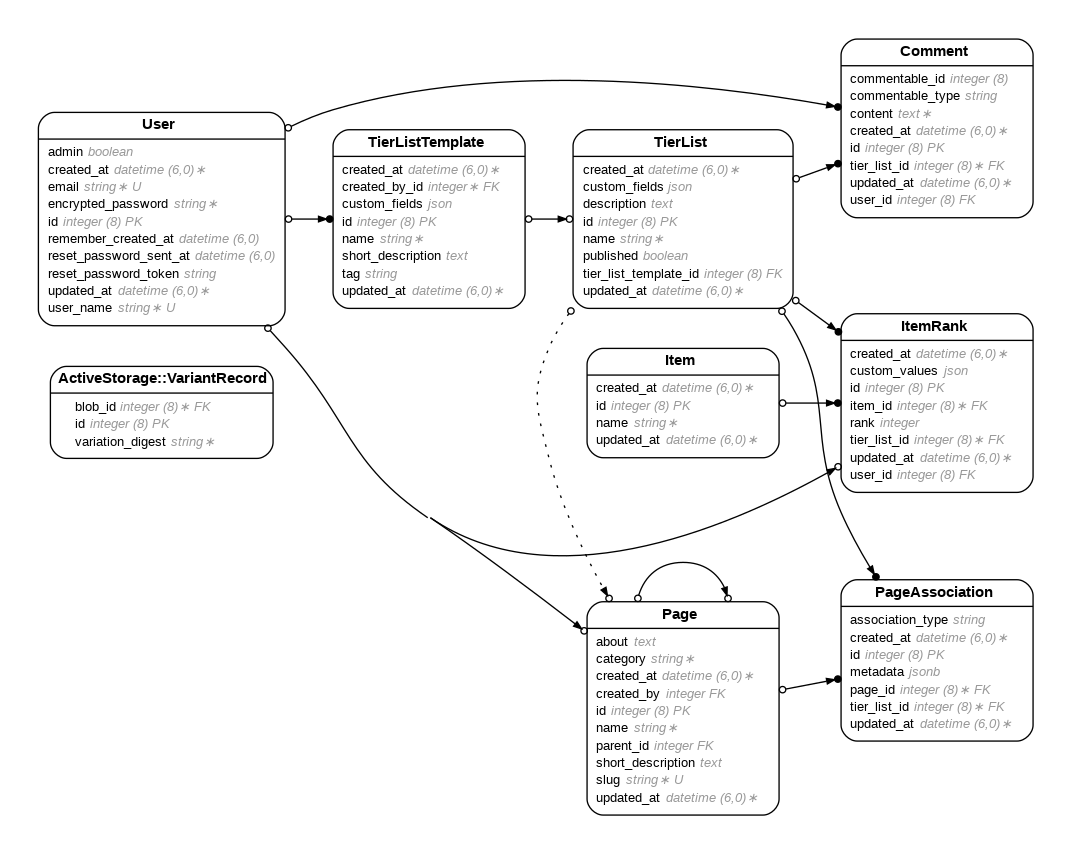
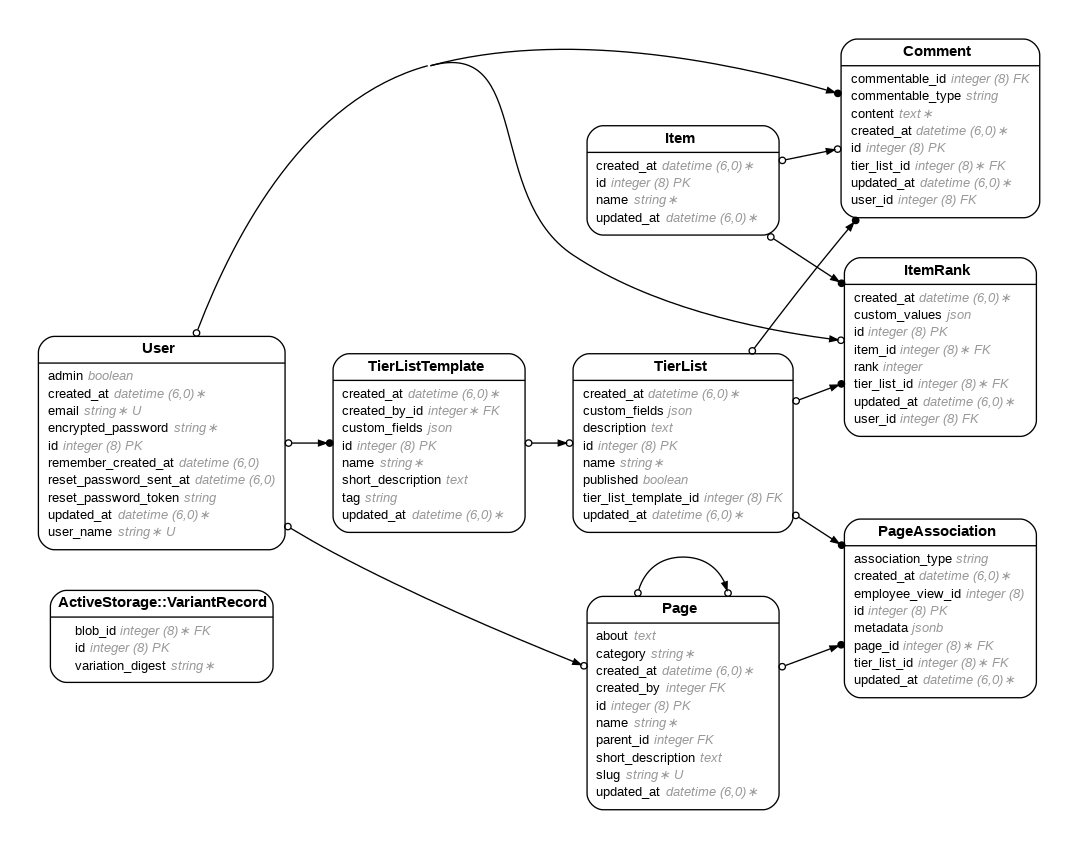
Created many new models and tables

diff --git a/db/schema.rb b/db/schema.rb
@@ -10,7 +10,7 @@
 #
 # It's strongly recommended that you check this file into your version control system.
 
-ActiveRecord::Schema[7.1].define(version: 2025_01_04_205326) do
+ActiveRecord::Schema[7.1].define(version: 2025_01_05_011759) do
   # These are extensions that must be enabled in order to support this database
   enable_extension "plpgsql"
 
@@ -55,6 +55,54 @@ ActiveRecord::Schema[7.1].define(version: 2025_01_04_205326) do
     t.index ["user_id"], name: "index_comments_on_user_id"
   end
 
+  create_table "companies", force: :cascade do |t|
+    t.string "name"
+    t.string "company_type"
+    t.datetime "created_at", null: false
+    t.datetime "updated_at", null: false
+  end
+
+  create_table "employee_views", force: :cascade do |t|
+    t.string "name"
+    t.text "description"
+    t.datetime "created_at", null: false
+    t.datetime "updated_at", null: false
+  end
+
+  create_table "employees", force: :cascade do |t|
+    t.string "name", null: false
+    t.bigint "job_level_id", null: false
+    t.bigint "company_id", null: false
+    t.bigint "previous_company_id"
+    t.string "linkedin_url"
+    t.integer "flagged", default: 0, null: false
+    t.text "flag_comment"
+    t.bigint "group_id", null: false
+    t.bigint "location_id", null: false
+    t.bigint "school_id"
+    t.datetime "created_at", null: false
+    t.datetime "updated_at", null: false
+    t.index ["company_id"], name: "index_employees_on_company_id"
+    t.index ["flagged"], name: "index_employees_on_flagged"
+    t.index ["group_id"], name: "index_employees_on_group_id"
+    t.index ["job_level_id"], name: "index_employees_on_job_level_id"
+    t.index ["linkedin_url"], name: "index_employees_on_linkedin_url"
+    t.index ["location_id"], name: "index_employees_on_location_id"
+    t.index ["name"], name: "index_employees_on_name"
+    t.index ["previous_company_id"], name: "index_employees_on_previous_company_id"
+    t.index ["school_id"], name: "index_employees_on_school_id"
+  end
+
+  create_table "groups", force: :cascade do |t|
+    t.string "name", null: false
+    t.bigint "company_id", null: false
+    t.bigint "location_id", null: false
+    t.datetime "created_at", null: false
+    t.datetime "updated_at", null: false
+    t.index ["company_id"], name: "index_groups_on_company_id"
+    t.index ["location_id"], name: "index_groups_on_location_id"
+  end
+
   create_table "item_ranks", force: :cascade do |t|
     t.bigint "item_id", null: false
     t.bigint "tier_list_id", null: false
@@ -74,6 +122,21 @@ ActiveRecord::Schema[7.1].define(version: 2025_01_04_205326) do
     t.datetime "updated_at", null: false
   end
 
+  create_table "job_levels", force: :cascade do |t|
+    t.string "name"
+    t.string "company_type"
+    t.bigint "company_id", null: false
+    t.datetime "created_at", null: false
+    t.datetime "updated_at", null: false
+    t.index ["company_id"], name: "index_job_levels_on_company_id"
+  end
+
+  create_table "locations", force: :cascade do |t|
+    t.string "name", null: false
+    t.datetime "created_at", null: false
+    t.datetime "updated_at", null: false
+  end
+
   create_table "page_associations", force: :cascade do |t|
     t.bigint "page_id", null: false
     t.bigint "tier_list_id", null: false
@@ -81,6 +144,8 @@ ActiveRecord::Schema[7.1].define(version: 2025_01_04_205326) do
     t.jsonb "metadata", default: {}
     t.datetime "created_at", null: false
     t.datetime "updated_at", null: false
+    t.bigint "employee_view_id"
+    t.index ["employee_view_id"], name: "index_page_associations_on_employee_view_id"
     t.index ["page_id", "tier_list_id"], name: "index_page_associations_on_page_id_and_tier_list_id", unique: true
     t.index ["page_id"], name: "index_page_associations_on_page_id"
     t.index ["tier_list_id"], name: "index_page_associations_on_tier_list_id"
@@ -99,6 +164,12 @@ ActiveRecord::Schema[7.1].define(version: 2025_01_04_205326) do
     t.index ["created_by"], name: "index_pages_on_created_by"
     t.index ["parent_id"], name: "index_pages_on_parent_id"
     t.index ["slug"], name: "index_pages_on_slug", unique: true
+  end
+
+  create_table "schools", force: :cascade do |t|
+    t.string "name"
+    t.datetime "created_at", null: false
+    t.datetime "updated_at", null: false
   end
 
   create_table "tier_list_templates", force: :cascade do |t|
@@ -142,9 +213,19 @@ ActiveRecord::Schema[7.1].define(version: 2025_01_04_205326) do
   add_foreign_key "active_storage_variant_records", "active_storage_blobs", column: "blob_id"
   add_foreign_key "comments", "tier_lists"
   add_foreign_key "comments", "users"
+  add_foreign_key "employees", "companies"
+  add_foreign_key "employees", "companies", column: "previous_company_id"
+  add_foreign_key "employees", "groups"
+  add_foreign_key "employees", "job_levels"
+  add_foreign_key "employees", "locations"
+  add_foreign_key "employees", "schools"
+  add_foreign_key "groups", "companies"
+  add_foreign_key "groups", "locations"
   add_foreign_key "item_ranks", "items"
   add_foreign_key "item_ranks", "tier_lists"
   add_foreign_key "item_ranks", "users"
+  add_foreign_key "job_levels", "companies"
+  add_foreign_key "page_associations", "employee_views"
   add_foreign_key "page_associations", "pages"
   add_foreign_key "page_associations", "tier_lists"
   add_foreign_key "tier_lists", "tier_list_templates"

diff --git a/app/models/page_association.rb b/app/models/page_association.rb
@@ -7,23 +7,30 @@
 #  metadata         :jsonb
 #  created_at       :datetime         not null
 #  updated_at       :datetime         not null
+#  employee_view_id :bigint
 #  page_id          :bigint           not null
 #  tier_list_id     :bigint           not null
 #
 # Indexes
 #
+#  index_page_associations_on_employee_view_id          (employee_view_id)
 #  index_page_associations_on_page_id                   (page_id)
 #  index_page_associations_on_page_id_and_tier_list_id  (page_id,tier_list_id) UNIQUE
 #  index_page_associations_on_tier_list_id              (tier_list_id)
 #
 # Foreign Keys
 #
+#  fk_rails_...  (employee_view_id => employee_views.id)
 #  fk_rails_...  (page_id => pages.id)
 #  fk_rails_...  (tier_list_id => tier_lists.id)
 #
 class PageAssociation < ApplicationRecord
   belongs_to :page
-  belongs_to :tier_list
+  belongs_to :tier_list, optional: true
+  belongs_to :employee_view, optional: true
 
-  validates :page_id, uniqueness: { scope: :tier_list_id, message: 'This association already exists.' }
+  validates :page_id, presence: true
+  validates :tier_list_id, uniqueness: { scope: :page_id, message: 'This tier list is already associated with this page.' }, if: -> { tier_list_id.present? }
+  validates :employee_view_id, uniqueness: { scope: :page_id, message: 'This employee view is already associated with this page.' }, if: -> { employee_view_id.present? }
 end
+

diff --git a/db/migrate/20250105011404_create_employees.rb b/db/migrate/20250105011404_create_employees.rb
@@ -1,0 +1,23 @@
+class CreateEmployees < ActiveRecord::Migration[7.1]
+  def change
+    create_table :employees do |t|
+      t.string :name, null: false
+      t.references :job_level, null: false, foreign_key: true
+      t.references :company, null: false, foreign_key: true
+      t.references :previous_company, foreign_key: { to_table: :companies }
+      t.string :linkedin_url
+      t.integer :flagged, default: 0, null: false
+      t.text :flag_comment
+      t.references :group, null: false, foreign_key: true
+      t.references :location, null: false, foreign_key: true
+      t.references :school, foreign_key: true
+
+      t.timestamps
+    end
+
+    # Add indexes for frequently queried fields
+    add_index :employees, :name
+    add_index :employees, :linkedin_url
+    add_index :employees, :flagged
+  end
+end

diff --git a/db/migrate/20250105012034_add_indexes_to_page_associations.rb b/db/migrate/20250105012034_add_indexes_to_page_associations.rb
@@ -1,0 +1,6 @@
+class AddIndexesToPageAssociations < ActiveRecord::Migration[7.1]
+  def change
+    add_index :page_associations, [:page_id, :tier_list_id], unique: true, where: 'tier_list_id IS NOT NULL'
+    add_index :page_associations, [:page_id, :employee_view_id], unique: true, where: 'employee_view_id IS NOT NULL'
+  end
+end

diff --git a/db/migrate/20250105010629_create_groups.rb b/db/migrate/20250105010629_create_groups.rb
@@ -1,0 +1,11 @@
+class CreateGroups < ActiveRecord::Migration[7.1]
+  def change
+    create_table :groups do |t|
+      t.string :name, null: false
+      t.references :company, null: false, foreign_key: true
+      t.references :location, null: false, foreign_key: true
+
+      t.timestamps
+    end
+  end
+end

diff --git a/db/migrate/20250105010839_create_job_levels.rb b/db/migrate/20250105010839_create_job_levels.rb
@@ -1,0 +1,11 @@
+class CreateJobLevels < ActiveRecord::Migration[7.1]
+  def change
+    create_table :job_levels do |t|
+      t.string :name
+      t.string :company_type
+      t.references :company, null: false, foreign_key: true
+
+      t.timestamps
+    end
+  end
+end

diff --git a/db/migrate/20250105011546_create_employee_views.rb b/db/migrate/20250105011546_create_employee_views.rb
@@ -1,0 +1,10 @@
+class CreateEmployeeViews < ActiveRecord::Migration[7.1]
+  def change
+    create_table :employee_views do |t|
+      t.string :name
+      t.text :description
+
+      t.timestamps
+    end
+  end
+end

diff --git a/db/migrate/20250105010347_create_companies.rb b/db/migrate/20250105010347_create_companies.rb
@@ -1,0 +1,10 @@
+class CreateCompanies < ActiveRecord::Migration[7.1]
+  def change
+    create_table :companies do |t|
+      t.string :name
+      t.string :company_type
+
+      t.timestamps
+    end
+  end
+end

diff --git a/db/migrate/20250105011759_add_employee_view_to_page_associations.rb b/db/migrate/20250105011759_add_employee_view_to_page_associations.rb
@@ -1,0 +1,6 @@
+class AddEmployeeViewToPageAssociations < ActiveRecord::Migration[7.1]
+  def change
+    add_reference :page_associations, :employee_view, foreign_key: true, null: true
+  end
+end
+

diff --git a/db/migrate/20250105005426_create_locations.rb b/db/migrate/20250105005426_create_locations.rb
@@ -1,0 +1,9 @@
+class CreateLocations < ActiveRecord::Migration[7.1]
+  def change
+    create_table :locations do |t|
+      t.string :name, null: false
+
+      t.timestamps
+    end
+  end
+end

diff --git a/db/migrate/20250105011256_create_schools.rb b/db/migrate/20250105011256_create_schools.rb
@@ -1,0 +1,9 @@
+class CreateSchools < ActiveRecord::Migration[7.1]
+  def change
+    create_table :schools do |t|
+      t.string :name
+
+      t.timestamps
+    end
+  end
+end
